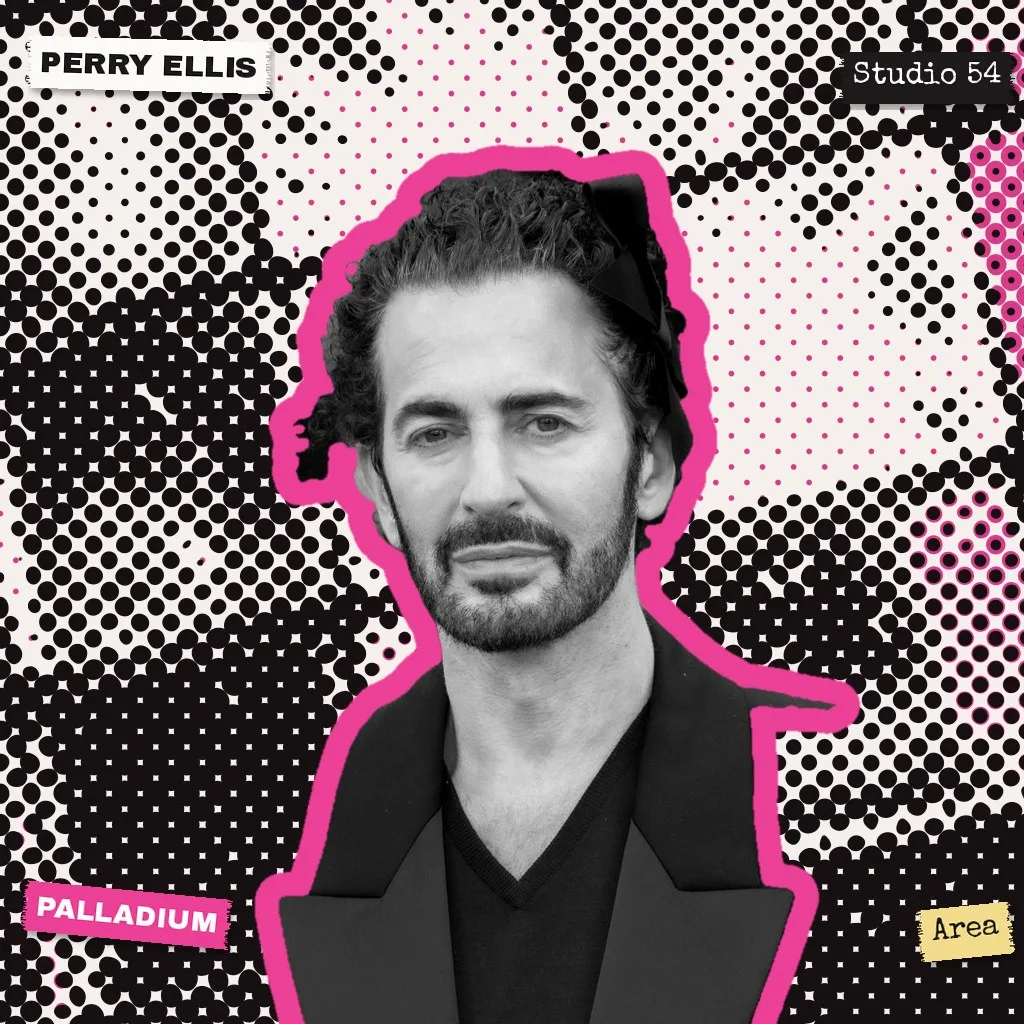
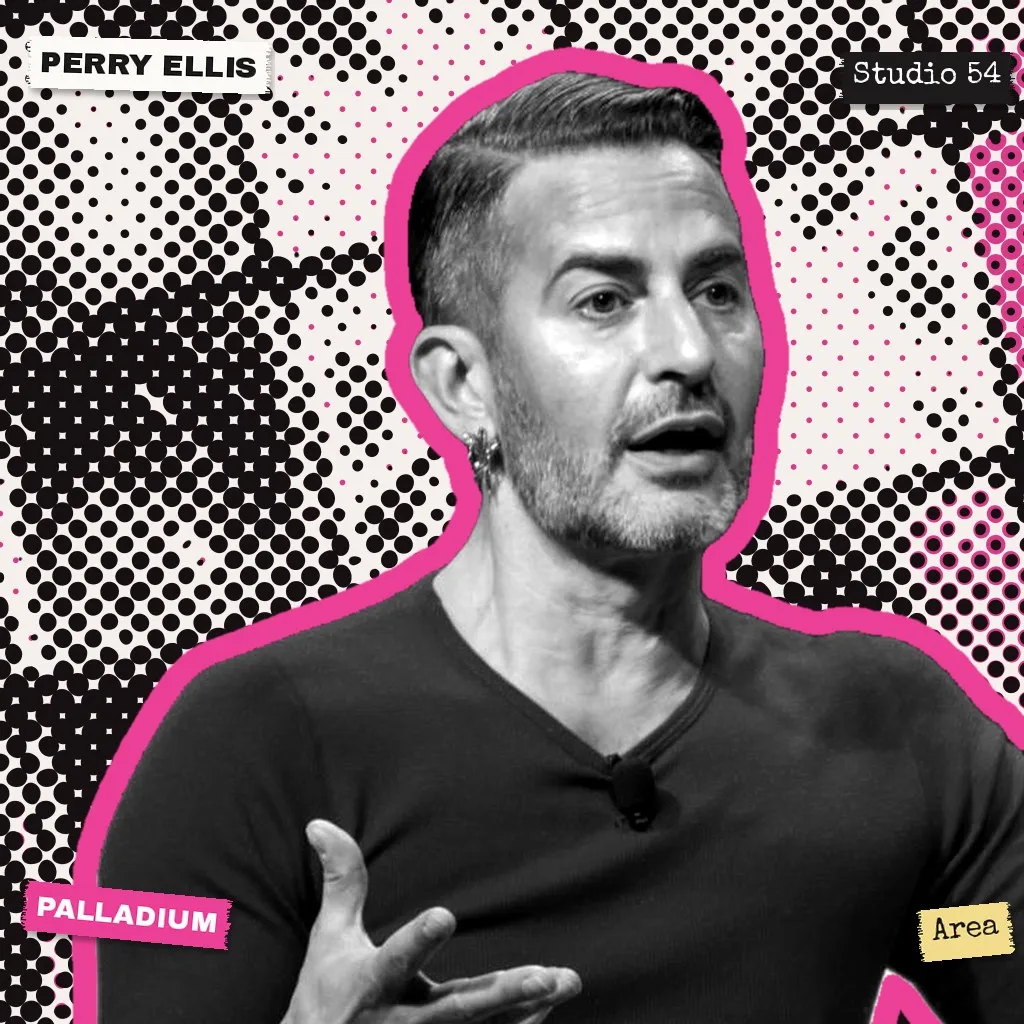
Person polaroids: Thierry Mugler linocut print, new Marc Jacobs (SXSW 2017, black and white)
Claude-Session: https://claude.ai/code/session_0192FesrX8LHmgXPdSRYwFPj

diff --git a/src/data/person-portraits.ts b/src/data/person-portraits.ts
@@ -48,6 +48,8 @@ import jeanPaulGaultierPhoto from "@/assets/people/jean-paul-gaultier-photo.webp
 import jeanPaulGaultierPolaroid from "@/assets/people/jean-paul-gaultier-polaroid.webp";
 import marcJacobsPhoto from "@/assets/people/marc-jacobs-photo.webp";
 import marcJacobsPolaroid from "@/assets/people/marc-jacobs-polaroid.webp";
+import thierryMuglerPhoto from "@/assets/people/thierry-mugler-photo.webp";
+import thierryMuglerPolaroid from "@/assets/people/thierry-mugler-polaroid.webp";
 import edieSedgwickPhoto from "@/assets/people/edie-sedgwick-photo.webp";
 import edieSedgwickPolaroid from "@/assets/people/edie-sedgwick-polaroid.webp";
 import stephenSabanPhoto from "@/assets/people/stephen-saban-photo.webp";
@@ -104,7 +106,7 @@ export const PERSON_PORTRAITS: Record<string, PersonPortrait> = {
   "debbie-harry": { photo: debbieHarryPhoto, polaroid: debbieHarryPolaroid, focus: "64%", credit: `Portrait after a Chrysalis Records press photo, 1982 (public domain), ${STYLE}` },
   marilyn: { photo: marilynPhoto, polaroid: marilynPolaroid, focus: "18%", credit: "Illustration made with Gemini, not a photo" },
   "jean-paul-gaultier": { photo: jeanPaulGaultierPhoto, polaroid: jeanPaulGaultierPolaroid, focus: "18%", credit: `Portrait after a photo by Netaction, 2015 (CC BY-SA 4.0; our version is CC BY-SA 4.0 too), ${STYLE}` },
-  "marc-jacobs": { photo: marcJacobsPhoto, polaroid: marcJacobsPolaroid, focus: "18%", credit: `Portrait after a photo by Harald Krichel, 2025 (CC BY-SA 4.0; our version is CC BY-SA 4.0 too), ${STYLE}` },
+  "marc-jacobs": { photo: marcJacobsPhoto, polaroid: marcJacobsPolaroid, focus: "25%", credit: `Portrait after a photo by Ståle Grut/NRKbeta, SXSW 2017 (CC BY-SA 2.0; our version is CC BY-SA 2.0 too), ${STYLE}` },
   "edie-sedgwick": { photo: edieSedgwickPhoto, polaroid: edieSedgwickPolaroid, focus: "18%", credit: `Portrait after a photo by Terry Stevenson, 1967 (public domain), ${STYLE}` },
   "stephen-saban": { photo: stephenSabanPhoto, polaroid: stephenSabanPolaroid, focus: "36%", credit: "Illustration made with Gemini, not a photo" },
   "vivienne-westwood": { photo: vivienneWestwoodPhoto, polaroid: vivienneWestwoodPolaroid, focus: "18%", credit: `Portrait after a photo by Mattia Passeri (CC BY-SA 4.0; our version is CC BY-SA 4.0 too), ${STYLE}` },
@@ -115,4 +117,5 @@ export const PERSON_PORTRAITS: Record<string, PersonPortrait> = {
   "mathu-andersen": { photo: mathuAndersenPhoto, polaroid: mathuAndersenPolaroid, focus: "18%", credit: "Illustration made with Gemini, not a photo" },
   "bernard-zette": { photo: bernardZettePhoto, polaroid: bernardZettePolaroid, focus: "18%", credit: "Illustration made with Gemini, not a photo" },
   "brooke-astor": { photo: brookeAstorPhoto, polaroid: brookeAstorPolaroid, focus: "36%", credit: "Illustration made with Gemini, not a photo" },
+  "thierry-mugler": { photo: thierryMuglerPhoto, polaroid: thierryMuglerPolaroid, focus: "30%", credit: "Linocut-style print after a photo by StagiaireMGIMO, 2014 (CC BY-SA 4.0; our version is CC BY-SA 4.0 too)" },
 };
